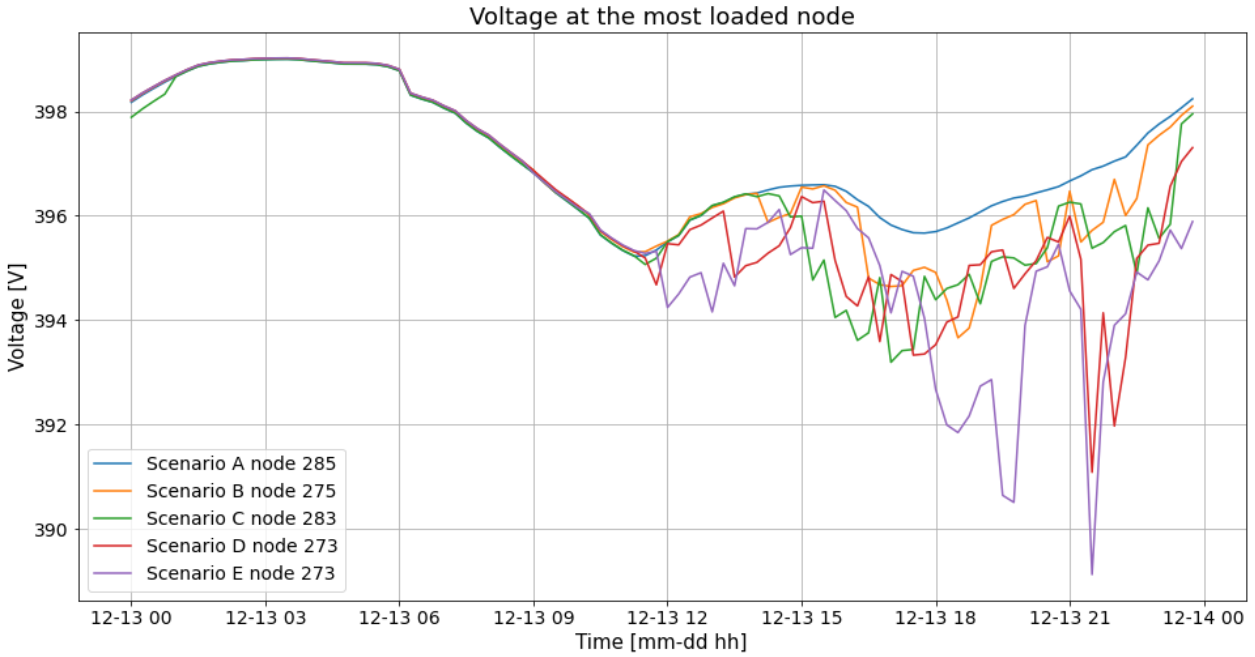
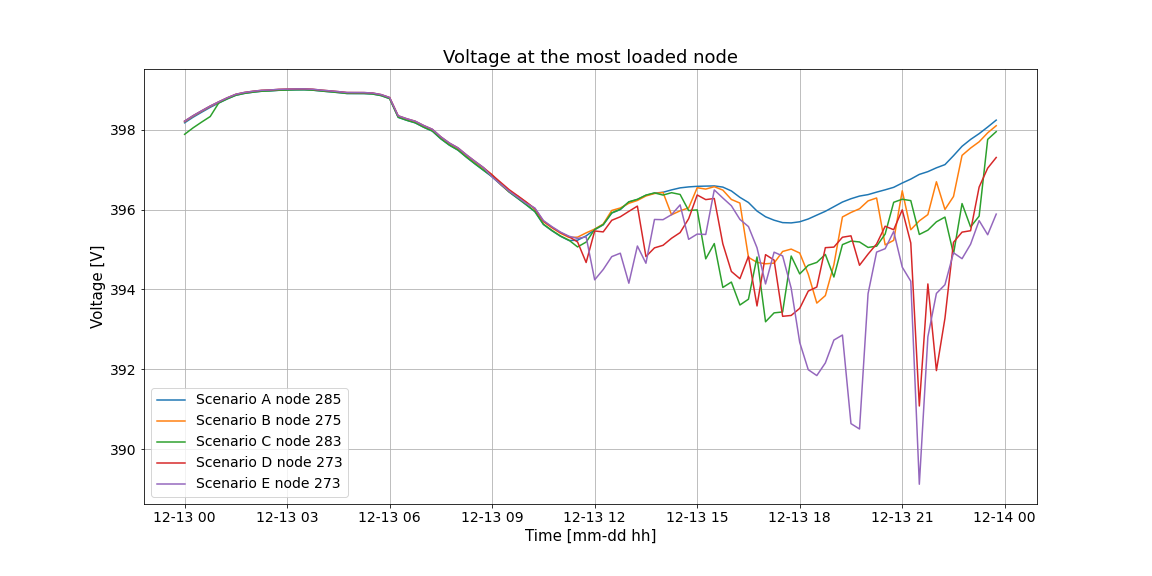
Update documentation

diff --git a/searchindex.js b/searchindex.js
@@ -1,1 +1,1 @@
-Search.setIndex({docnames:["README","dummy","index","intro","results","simulation"],envversion:{"sphinx.domains.c":2,"sphinx.domains.changeset":1,"sphinx.domains.citation":1,"sphinx.domains.cpp":3,"sphinx.domains.index":1,"sphinx.domains.javascript":2,"sphinx.domains.math":2,"sphinx.domains.python":2,"sphinx.domains.rst":2,"sphinx.domains.std":2,"sphinx.ext.intersphinx":1,"sphinxcontrib.bibtex":7,sphinx:56},filenames:["README.md","dummy.md","index.md","intro.ipynb","results.md","simulation.ipynb"],objects:{},objnames:{},objtypes:{},terms:{"100":[1,3,4,5],"100km":1,"100pro":1,"12156":3,"12337":1,"12708":1,"136617":3,"150":1,"15min":5,"16z":[],"183003":1,"18948":3,"1tag":[],"200":5,"2008":1,"200km":4,"2010":3,"2011":[1,3],"2015":1,"2020":[0,1,3,5],"2021":[1,3],"2030":3,"2031":3,"220":[4,5],"2307":3,"25502":3,"265995":3,"273":5,"285":[],"309083":3,"30t11":[],"34022":3,"340v":4,"365":1,"376v":4,"3min":[],"400":5,"400v":1,"4514":3,"500":1,"52kwh":1,"53861":3,"700px":[],"7114":3,"83175":3,"aufnahmef\u00e4higkeit":1,"case":4,"default":1,"f\u00fcr":[0,1],"final":5,"hausanschl\u00fcss":0,"import":[3,5],"int":5,"j\u00e4hrlich":1,"k\u00f6ln":1,"k\u00f6nnen":0,"long":4,"m\u00fcnchen":1,"new":[3,5],"sp\u00e4t":1,"switch":1,"transient":4,"true":5,"universit\u00e4t":1,Als:0,And:[1,5],For:3,One:2,The:[2,3,4],These:1,With:[1,4],_2008:[],abbrevi:[],about:4,abov:5,accept:[],accomplish:2,accord:[1,5],account:1,action:5,activ:[4,5],activate_contol:5,ada:1,adac:1,adding:5,addition:1,adjust:[1,5],adopt:1,aim:2,all:[1,4,5],allow:5,almost:4,als:1,also:[1,4,5],alter:5,alwai:4,anaconda:2,andrea:1,annoi:5,anoth:[1,2],anzahl:3,appli:5,area:3,aren:3,arrai:3,arriv:[4,5],arrival_tim:5,artifici:5,assess:3,assum:1,attach:[1,4],atteri:3,aus:[0,1],auto:[],avaiabl:5,avail:[2,3,5],averag:1,bachelor:[],back:4,background:2,band:4,bar:3,baseload:5,batteri:5,battery_control:5,batterycontrol:5,bee:[1,3,4],bei:1,belastet:5,besser:1,bev:[3,4,5],bevs_prog:3,bewar:2,big:2,bigger:4,bilanz:1,binder:[0,2],blabla:[],black:3,book:0,bring:4,bus:5,busbar:4,bzw:1,calcul:[1,5],can:5,capac:1,categori:[1,5],caus:4,cdot:1,chang:[2,4,5],chapter:[1,2,4,5],characterist:1,charg:[3,4,5],check:5,choic:5,choos:[1,2,5],choosen:[1,5],code:2,color:3,column:5,com:[1,3],common:4,complet:[1,5],compon:4,comput:[2,5],config:3,configur:5,consid:1,consider:3,constant:3,constcontrol:5,constitut:[],consumpt:1,contribut:1,control:5,controllable_batteri:5,controllablebatteri:5,coordin:5,correct:5,correspond:4,cosphi:5,cours:5,cpu:2,craft:[],create_kerber_vorstadtnetz_kabel_1:5,crit_bu:5,crit_lin:5,critic:5,csv:5,current:1,curv:[1,5],custom:5,dai:1,data:3,data_nuernberg:5,data_sourc:5,datasourc:5,datasource_bat:5,date_rang:5,datei:[],daten:[1,3,5],deepest:4,defi:1,defin:1,delta:[1,5],dem:0,demand:1,den:[],depend:1,depict:[4,5],der:[0,3],deriv:1,des:1,describ:[1,5],design:1,determ:[],determin:[1,5],deutschland:[1,3],develop:[3,5],dfdata:5,die:[0,1],dient:0,differ:[3,4,5],differenti:1,diploma:[],disc:[],discret:1,discuss:1,distanc:5,distance_travel:5,distibut:[],distribut:[4,5],doesn:5,dou15:1,doum:1,download:2,downscal:1,drive:1,driven:[],drop:[1,4],e_n:1,each:4,easiest:2,effect:[3,4],ehicl:3,ein:[0,1],einer:0,einspeisung:1,einzelnen:0,elect:[],electr:3,elektrisch:1,elektrischen:1,elektroauto:[1,3],elektrofahrzeug:0,elektromobilitaet:1,elektromodel:1,element:[1,5],element_index:5,els:5,enabl:5,end:[1,4],energi:1,entsprechend:[],environ:2,equat:[1,5],ergebniss:[],erneuerbar:1,erzeugen:[],even:[3,4],exampl:3,expect:[1,3],experi:2,exponenti:3,extrem:5,f_d:1,f_i:1,factor:[1,2,5],fahrleistung:1,fahrzeug:1,fahrzeugen:1,faktor:5,fals:5,festlegen:[],figsiz:[3,5],figur:[1,3,4,5],figure_format:3,first:[1,2,5],fix:5,follow:[1,2,3,4,5],fontsiz:[3,5],frac:1,frame_data:5,freq:5,from:[1,3,4,5],further:[2,3],furthermor:[1,4],futur:3,futurewarn:5,gefahren:1,geht:0,geladen:0,geloggt:[],gener:5,geodata:5,georg:1,german:1,germani:3,get:4,get_critical_bu:5,get_critical_lin:5,github:[2,5],given:[1,2,4],gleichzeitig:0,goe:[],goi:1,going:[3,4],goingelectr:1,granular:5,grid:3,grow:3,growth:3,h0a:[0,1],handl:1,has:3,have:[4,5],hello:[],here:[2,4],hier:0,higher:4,highest:[1,4],hochschul:1,home:4,hour:[4,5],household:[1,3],howev:[4,5],htm:1,html:1,http:[1,3],hybrid:3,hydrogen:[],ignor:5,igraph:5,iloc:5,implement:1,implementig:1,includ:[3,5],increas:4,index:5,indic:3,influenc:[1,5],info:1,initi:1,inlinebackend:3,inplac:5,insuffici:5,int_:[],integr:1,interact:2,introduc:3,introduct:2,investig:1,ion:1,isn:5,ist:1,jahr:1,jeden:[],jeweiligen:[],journal:[],jupyt:[0,2],k_d:1,k_i:1,k_l:1,keep:[3,4],ker11:1,kerber:[0,1,5],kerber_aufnahmefahigkeit_2011:[],key1:[],kilomet:1,klick:2,kwh:1,label:3,ladekurven:[],larger:3,last:[1,3],lastmanag:1,lastmanagement_elektromobilitaet:1,lastprofil:[0,5],layout:5,lead:3,lectric:3,left:1,legend:3,leitung:5,len:5,length:5,level:3,librari:5,limit:2,line:3,linspac:3,list:[1,3],lithium:1,live:2,load:3,load_control:[],load_controler_q:5,load_controller_bat:5,load_scenario:5,loading_data:5,loading_perc:5,loading_pow:5,loads_bat:5,loads_q:5,local:[1,2],log:5,log_vari:5,look:5,loop:1,low:4,lower:1,mai:5,main:4,make:[2,5],manipul:5,marker:5,matplotlib:[3,5],max:1,maxim:5,maximum:[1,4],mean:[1,4],methodolog:2,might:[2,5],million:3,min:5,minimum:5,minut:[4,5],miss:[],mit:0,mobil:3,model:3,most:[1,3,5],much:4,multipl:5,n_ergi:[0,1],need:5,net:5,netbeam:4,network:[1,2],netz:[0,1],netzwerk:0,next:[1,5],nie:1,niederspannungsnetzen:1,niederspannungsverteilnetzen:1,noa:3,node:[1,3],nom:1,nomin:5,none:5,notebook:2,nother:[],notic:4,notwendigkeit:1,now:5,nuernberg_absolut_fin:5,number:[1,3],numpi:3,observ:3,occur:4,offer:2,one:[1,5],onli:1,open:2,out:5,output:5,output_file_typ:5,output_path:5,outputwrit:5,overcom:2,own:2,p_mw:5,page:1,panda:5,pandapow:[0,1,3,5],paramet:[2,3],part:1,peak:[1,4],penetr:[3,4,5],peopl:[1,4],per:1,period:5,photovoltaikkleinanlagen:1,pkw:1,plot:[1,3,5],plt:[3,5],plug:3,point:1,possibilii:2,possibl:[2,5],power:5,powerfactor:5,ppt:5,pptool:5,predefin:[],predict:3,prepare_baseload:5,prepare_batteri:5,print:5,pro:1,probabl:1,profile_nam:5,progress:[2,5],proportion:1,propos:5,provid:[1,2],publikationen:1,pyplot:[3,5],python:[3,5],q_mvar:5,quarter:5,quicker:4,rahmenbedingungen:1,ram:2,random:5,rang:3,rate:1,reactiv:5,read:5,read_csv:5,real:1,red:3,referenznetz:0,reflect:5,regist:3,relev:2,remot:2,ren:1,renault:1,repositori:[2,5],repositum:1,repres:1,res_bu:5,res_lin:5,res_trafo:5,resolut:[4,5],respons:4,ressourc:[],result:1,results_bu:5,results_lin:5,results_trafo:5,retina:3,right:[1,2],rise:3,risen:3,rocket:2,rstrip:5,run:2,run_timeseri:5,rund:1,same:[4,5],same_arriv:5,same_pow:5,same_travel:5,satisfi:5,scenario:4,sch08:1,schemat:1,schneider:[],school:[],schreibt:[],schuster:1,schuster_batteri:[],second_d:5,see:[1,4],seed:5,seem:3,sep:5,separ:1,serv:1,session:2,set_const:5,set_control_param:5,set_resolut:5,set_simulation_rang:5,setzt:[],share:[3,5],show:[1,3,4],shown:1,significantli:3,simple_plot:5,simplefilt:5,simul:[1,2,3,4],simulieren:0,sinc:3,slightli:[],slp:[1,5],soc:[1,4],soc_0:1,soc_:1,soc_n:1,sold:1,sollen:[],some:[3,5],space:[],specifi:[2,5],sta:1,stabil:3,stai:4,stand:3,standardlastprofil:0,start:[1,2,4,5],state:[1,5],station:[3,5],statist:5,statista:[1,3],statistik:[1,3],step:5,stop:1,storag:[],store:5,str:5,stress:[3,5],stromtankstellen:1,studi:[1,3],subject:2,suburb:1,suburban:3,suitabl:2,sum_:1,summar:4,suppress:5,symbol:[1,2],system:[],szenario0:5,szenario100:5,szenario30:5,szenario50:5,szenario80:5,tabl:[1,3,5],take:[4,5],taken:1,tech:1,technisch:1,textbar:[],tfrac:1,thee:[],thei:4,therefor:3,thesi:[],thi:[1,4,5],tho15:[],thorben:1,those:3,three:1,thu:[4,5],tick:3,till:3,time:[4,5],timeseri:5,timestep:1,titl:[3,5],toler:4,too:2,tool:[3,5],top:2,topic:2,transform:3,travel:[4,5],tuwien:1,two:2,typischen:0,u_n:1,umfrag:[1,3],ums:1,und:[0,1],underli:5,unit:1,until:4,url:[1,3],used:[1,2,5],using:[3,5],valu:1,variabl:5,variablen:[],vaue:1,vehicl:3,verwendet:0,viel:0,visit:[1,3],vm_pu:5,voltag:[1,3,4],von:[0,1],vorstadt:0,wai:[2,5],warn:5,wasserstoffspeich:1,welch:[],well:2,werden:0,wert:[],what:3,when:[3,4,5],where:[3,5],whether:5,which:[1,5],whole:[4,5],why:2,wich:1,width:[],wie:0,wien:1,wird:0,without:4,work:2,worst:4,writer:5,www:1,xlabel:[3,5],xtick:3,year:[1,3],years_prog:3,ylabel:[3,5],ytick:3,zeitpukten:[],zoe:1,zum:0},titles:["SNEE-Projekt","Methodology for Research","How to read this Book","Introduction","Discussion of the Results","Simulation of the Grid"],titleterms:{Bus:5,The:[1,5],arriv:1,attent:[2,5],background:3,batteri:1,bev:1,bibliographi:[1,3],book:2,charg:1,chargin:[],code:5,consid:3,control:[1,4],creat:5,discuss:4,distanc:1,distribut:1,ditribut:[],goal:3,grid:[1,5],hint:[2,4],how:2,introduct:3,line:[4,5],load:[1,4,5],methodolog:1,model:1,most:4,necessari:5,network:5,node:4,nomin:1,note:3,paramet:[1,5],power:1,prepar:5,profil:1,projekt:0,read:2,refer:1,research:1,result:[4,5],run:5,scenario:[3,5],see:5,set:5,simul:5,snee:0,standard:1,station:1,thi:[2,3],time:1,tip:5,transform:[4,5],travel:1,voltag:5,work:3}})
+Search.setIndex({docnames:["README","dummy","index","intro","results","simulation"],envversion:{"sphinx.domains.c":2,"sphinx.domains.changeset":1,"sphinx.domains.citation":1,"sphinx.domains.cpp":3,"sphinx.domains.index":1,"sphinx.domains.javascript":2,"sphinx.domains.math":2,"sphinx.domains.python":2,"sphinx.domains.rst":2,"sphinx.domains.std":2,"sphinx.ext.intersphinx":1,"sphinxcontrib.bibtex":7,sphinx:56},filenames:["README.md","dummy.md","index.md","intro.ipynb","results.md","simulation.ipynb"],objects:{},objnames:{},objtypes:{},terms:{"100":[1,3,4,5],"100km":1,"100pro":1,"12156":3,"12337":1,"12708":1,"136617":3,"150":1,"15min":5,"16z":[],"183003":1,"18948":3,"1tag":[],"200":5,"2008":1,"200km":4,"2010":3,"2011":[1,3],"2015":1,"2020":[0,1,3,5],"2021":[1,3],"2030":3,"2031":3,"220":[4,5],"2307":3,"25502":3,"265995":3,"273":5,"285":[],"309083":3,"30t11":[],"34022":3,"340v":4,"365":1,"376":3,"376v":4,"3min":[],"400":5,"400v":1,"4514":3,"500":1,"52kwh":1,"53861":3,"700px":[],"7114":3,"83175":3,"aufnahmef\u00e4higkeit":1,"case":4,"default":1,"f\u00fcr":[0,1],"final":5,"hausanschl\u00fcss":0,"import":[3,5],"int":5,"j\u00e4hrlich":1,"k\u00f6ln":1,"k\u00f6nnen":0,"long":4,"m\u00fcnchen":1,"new":[3,5],"sp\u00e4t":1,"switch":1,"transient":4,"true":5,"universit\u00e4t":1,Als:0,And:[1,5],For:3,One:2,The:[2,3,4],These:1,With:[1,4],_2008:[],abbrevi:[],about:4,abov:5,accept:[],accomplish:2,accord:[1,5],account:1,action:5,activ:[4,5],activate_contol:5,ada:1,adac:1,adding:5,addition:1,adjust:[1,5],adopt:1,aim:2,all:[1,4,5],allow:5,almost:4,als:1,also:[1,4,5],alter:5,alwai:4,anaconda:2,andrea:1,annoi:5,anoth:[1,2],anzahl:3,appli:5,area:3,aren:3,arrai:3,arriv:[4,5],arrival_tim:5,artifici:5,assess:3,assum:1,attach:[1,4],atteri:3,aus:[0,1],auto:[],avaiabl:5,avail:[2,3,5],averag:1,bachelor:[],back:4,background:2,band:4,bar:3,baseload:5,batteri:5,battery_control:5,batterycontrol:5,bee:[1,3,4],bei:1,belastet:5,besser:1,bev:[3,4,5],bevs_prog:3,bewar:2,big:2,bigger:4,bilanz:1,binder:[0,2],blabla:[],black:3,book:0,bring:4,bus:5,busbar:4,bzw:1,calcul:[1,5],can:5,capac:1,categori:[1,5],caus:4,cdot:1,chang:[2,4,5],chapter:[1,2,4,5],characterist:1,charg:[3,4,5],check:5,choic:5,choos:[1,2,5],choosen:[1,5],code:2,color:3,column:5,com:[1,3],common:4,complet:[1,5],compon:4,comput:[2,5],config:3,configur:5,consid:1,consider:[],constant:3,constcontrol:5,constitut:[],consumpt:1,contribut:1,control:5,controllable_batteri:5,controllablebatteri:5,coordin:5,correct:5,correspond:4,cosphi:5,cours:5,cpu:2,craft:[],create_kerber_vorstadtnetz_kabel_1:5,crit_bu:5,crit_lin:5,criterion:3,critic:5,csv:5,current:1,curv:[1,5],custom:5,dai:1,data:3,data_nuernberg:5,data_sourc:5,datasourc:5,datasource_bat:5,date_rang:5,datei:[],daten:[1,3,5],deepest:4,defi:1,defin:1,delta:[1,5],dem:0,demand:1,den:[],depend:1,depict:[4,5],der:[0,3],deriv:1,des:1,describ:[1,5],design:1,determ:[],determin:[1,5],deutschland:[1,3],develop:[3,5],dfdata:5,die:[0,1],dient:0,differ:[3,4,5],differenti:1,diploma:[],disc:[],discret:1,discuss:1,distanc:5,distance_travel:5,distibut:[],distribut:[4,5],doesn:5,dou15:1,doum:1,download:2,downscal:1,drive:1,driven:[],drop:[1,4],e_n:1,each:4,easiest:2,effect:[3,4],ehicl:3,ein:[0,1],einer:0,einspeisung:1,einzelnen:0,elect:[],electr:3,elektrisch:1,elektrischen:1,elektroauto:[1,3],elektrofahrzeug:0,elektromobilitaet:1,elektromodel:1,element:[1,5],element_index:5,els:5,enabl:5,end:[1,4],energi:1,entsprechend:[],environ:2,equat:[1,5],ergebniss:[],erneuerbar:1,erzeugen:[],even:[3,4],exampl:3,expect:[1,3],experi:2,exponenti:3,extrem:5,f_d:1,f_i:1,factor:[1,2,5],fahrleistung:1,fahrzeug:1,fahrzeugen:1,faktor:5,fals:5,festlegen:[],figsiz:[3,5],figur:[1,3,4,5],figure_format:3,first:[1,2,5],fix:5,follow:[1,2,3,4,5],fontsiz:[3,5],frac:1,frame_data:5,freq:5,from:[1,3,4,5],further:[2,3],furthermor:[1,4],futur:3,futurewarn:5,gefahren:1,geht:0,geladen:0,geloggt:[],gener:5,geodata:5,georg:1,german:1,germani:3,get:4,get_critical_bu:5,get_critical_lin:5,github:[2,5],given:[1,2,3,4],gleichzeitig:0,goe:[],goi:1,going:[3,4],goingelectr:1,granular:5,grid:3,grow:3,growth:3,h0a:[0,1],handl:1,has:3,have:[4,5],hello:[],here:[2,4],hier:0,higher:4,highest:[1,4],hochschul:1,home:4,hour:[4,5],household:[1,3],howev:[4,5],htm:1,html:1,http:[1,3],hybrid:3,hydrogen:[],ignor:5,igraph:5,iloc:5,implement:1,implementig:1,includ:[3,5],increas:4,index:5,indic:3,influenc:[1,5],info:1,initi:1,inlinebackend:3,inplac:5,insuffici:5,int_:[],integr:1,interact:2,introduc:3,introduct:2,investig:1,ion:1,isn:5,ist:1,jahr:1,jeden:[],jeweiligen:[],journal:[],jupyt:[0,2],k_d:1,k_i:1,k_l:1,keep:[3,4],ker11:1,kerber:[0,1,5],kerber_aufnahmefahigkeit_2011:[],key1:[],kilomet:1,klick:2,kwh:1,label:3,ladekurven:[],larger:3,last:[1,3],lastmanag:1,lastmanagement_elektromobilitaet:1,lastprofil:[0,5],layout:5,lead:3,lectric:3,left:1,legend:3,leitung:5,len:5,length:5,level:3,librari:5,limit:2,line:3,linspac:3,list:[1,3],lithium:1,live:2,load:3,load_control:[],load_controler_q:5,load_controller_bat:5,load_scenario:5,loading_data:5,loading_perc:5,loading_pow:5,loads_bat:5,loads_q:5,local:[1,2],log:5,log_vari:5,look:5,loop:1,low:4,lower:1,mai:5,main:4,make:[2,5],manipul:5,marker:5,matplotlib:[3,5],max:1,maxim:5,maximum:[1,4],mean:[1,4],methodolog:2,might:[2,5],million:3,min:5,minimum:5,minut:[4,5],miss:[],mit:0,mobil:3,model:3,most:[1,3,5],much:4,multipl:5,n_ergi:[0,1],need:5,net:5,netbeam:4,network:[1,2],netz:[0,1],netzwerk:0,next:[1,5],nie:1,niederspannungsnetzen:1,niederspannungsverteilnetzen:1,noa:3,node:[1,3],nom:1,nomin:5,none:5,notebook:2,nother:[],notic:4,notwendigkeit:1,now:5,nuernberg_absolut_fin:5,number:[1,3],numpi:3,observ:[],occur:4,offer:2,one:[1,5],onli:1,open:2,out:5,output:5,output_file_typ:5,output_path:5,outputwrit:5,overcom:2,own:2,p_mw:5,page:1,panda:5,pandapow:[0,1,3,5],paramet:2,part:1,peak:[1,4],penetr:[3,4,5],peopl:[1,4],per:1,period:5,photovoltaikkleinanlagen:1,pkw:1,plot:[1,3,5],plt:[3,5],plug:3,point:1,possibilii:2,possibl:[2,5],power:5,powerfactor:5,ppt:5,pptool:5,predefin:[],predict:3,prepare_baseload:5,prepare_batteri:5,print:5,pro:1,probabl:1,profile_nam:5,progress:[2,5],proportion:1,propos:5,provid:[1,2],publikationen:1,pyplot:[3,5],python:[3,5],q_mvar:5,quarter:5,quicker:4,rahmenbedingungen:1,ram:2,random:5,rang:3,rate:1,reactiv:5,read:5,read_csv:5,real:1,red:3,referenznetz:0,reflect:5,regist:3,relev:2,remot:2,ren:1,renault:1,repositori:[2,5],repositum:1,repres:1,res_bu:5,res_lin:5,res_trafo:5,resolut:[4,5],respons:4,ressourc:[],result:1,results_bu:5,results_lin:5,results_trafo:5,retina:3,right:[1,2],rise:3,risen:3,rocket:2,rstrip:5,run:2,run_timeseri:5,rund:1,same:[4,5],same_arriv:5,same_pow:5,same_travel:5,satisfi:5,scenario:4,sch08:1,schemat:1,schneider:[],school:[],schreibt:[],schuster:1,schuster_batteri:[],second_d:5,see:[1,4],seed:5,seem:3,sep:5,separ:1,serv:1,session:2,set_const:5,set_control_param:5,set_resolut:5,set_simulation_rang:5,setzt:[],share:[3,5],show:[1,3,4],shown:1,significantli:3,simple_plot:5,simplefilt:5,simul:[1,2,3,4],simulieren:0,sinc:3,slightli:[],slp:[1,5],soc:[1,4],soc_0:1,soc_:1,soc_n:1,sold:1,sollen:[],some:[3,5],space:[],specifi:[2,5],sta:1,stabil:3,stai:4,stand:3,standardlastprofil:0,start:[1,2,4,5],state:[1,5],station:[3,4,5],statist:5,statista:[1,3],statistik:[1,3],step:5,stop:1,storag:[],store:5,str:5,stress:[3,5],stromtankstellen:1,studi:[1,3],subject:2,suburb:1,suburban:3,suitabl:2,sum_:1,summar:4,suppress:5,symbol:[1,2],system:[],szenario0:5,szenario100:5,szenario30:5,szenario50:5,szenario80:5,tabl:[1,3,5],take:[4,5],taken:1,tech:1,technisch:1,textbar:[],tfrac:1,thee:[],thei:4,therefor:3,thesi:[],thi:[1,4,5],tho15:[],thorben:1,those:3,three:1,thu:[4,5],tick:3,till:3,time:[4,5],timeseri:5,timestep:1,titl:[3,5],toler:4,too:2,tool:[3,5],top:2,topic:2,transform:3,travel:[4,5],tuwien:1,two:2,typischen:0,u_n:1,umfrag:[1,3],ums:1,und:[0,1],underli:5,unit:1,until:4,url:[1,3],used:[1,2,5],using:[3,5],valu:1,variabl:5,variablen:[],vaue:1,vehicl:3,verwendet:0,viel:0,visit:[1,3],vm_pu:5,voltag:[1,3,4],von:[0,1],vorstadt:0,wai:[2,5],warn:5,wasserstoffspeich:1,welch:[],well:2,werden:0,wert:[],what:3,when:[3,4,5],where:[3,5],whether:5,which:[1,5],whole:[4,5],why:2,wich:1,width:[],wie:0,wien:1,wird:0,without:4,work:2,worst:4,writer:5,www:1,xlabel:[3,5],xtick:3,year:[1,3],years_prog:3,ylabel:[3,5],ytick:3,zeitpukten:[],zoe:1,zum:0},titles:["SNEE-Projekt","Methodology for Research","How to read this Book","Introduction","Discussion of the Results","Simulation of the Grid"],titleterms:{Bus:5,The:[1,5],arriv:1,attent:[2,5],background:3,batteri:1,bev:1,bibliographi:[1,3],book:2,charg:1,chargin:[],code:5,consid:3,control:[1,4],creat:5,discuss:4,distanc:1,distribut:1,ditribut:[],goal:3,grid:[1,5],hint:[2,4],how:2,introduct:3,line:[4,5],load:[1,4,5],methodolog:1,model:1,most:4,necessari:5,network:5,node:4,nomin:1,note:3,observ:3,paramet:[1,3,5],power:1,prepar:5,profil:1,projekt:0,read:2,refer:1,research:1,result:[4,5],run:5,scenario:[3,5],see:5,set:5,simul:5,snee:0,standard:1,station:1,thi:[2,3],time:1,tip:5,transform:[4,5],travel:1,voltag:5,work:3}})

diff --git a/results.html b/results.html
@@ -229,12 +229,12 @@
                 
   <div class="section" id="discussion-of-the-results">
 <h1>Discussion of the Results<a class="headerlink" href="#discussion-of-the-results" title="Permalink to this headline">¶</a></h1>
-<p>In this chapter the results of simulating the different <a class="reference internal" href="intro.html#tab1"><span class="std std-ref">scenarios</span></a> are beeing summarized. In the following the results for each component are discussed. Furthermore the effect of the controlling is discussed.</p>
+<p>In this chapter the results of simulating the different <a class="reference internal" href="intro.html#tab2"><span class="std std-ref">scenarios</span></a> are beeing summarized. In the following the results for each component are discussed. Furthermore the effect of the controlling is discussed.</p>
 <div class="section" id="results-of-the-transformer">
 <h2>Results of the Transformer<a class="headerlink" href="#results-of-the-transformer" title="Permalink to this headline">¶</a></h2>
 <p>The loading of the transformer for the different scenarios is given in the following <a class="reference internal" href="#fig8"><span class="std std-ref">Figure 8</span></a>:</p>
 <div class="figure align-default" id="fig8">
-<a class="reference internal image-reference" href="_images/res_trafo.png"><img alt="_images/res_trafo.png" src="_images/res_trafo.png" style="width: 700px;" /></a>
+<a class="reference internal image-reference" href="_images/res_trafo.png"><img alt="_images/res_trafo.png" src="_images/res_trafo.png" style="width: 900px;" /></a>
 <p class="caption"><span class="caption-number">Fig. 8 </span><span class="caption-text">Simulation results for the transformer</span><a class="headerlink" href="#fig8" title="Permalink to this image">¶</a></p>
 </div>
 <p>It is to see, that the peak loading keeps getting bigger with higher penetrations of BEV. Also the peak in the evening hours corresponds to the distribution of arrival times depicted in <a class="reference internal" href="dummy.html#fig5"><span class="std std-ref">Figure 5</span></a>. The most people arrive in the evening and start charging their BEV, thus causing the highest peak in the evening.</p>
@@ -243,7 +243,7 @@
 <h2>Results of the most loaded Line<a class="headerlink" href="#results-of-the-most-loaded-line" title="Permalink to this headline">¶</a></h2>
 <p>The loading of the most loaded line for the different scenarios is given in the following <a class="reference internal" href="#fig9"><span class="std std-ref">Figure 9</span></a>:</p>
 <div class="figure align-default" id="fig9">
-<a class="reference internal image-reference" href="_images/res_line.png"><img alt="_images/res_line.png" src="_images/res_line.png" style="width: 700px;" /></a>
+<a class="reference internal image-reference" href="_images/res_line.png"><img alt="_images/res_line.png" src="_images/res_line.png" style="width: 900px;" /></a>
 <p class="caption"><span class="caption-number">Fig. 9 </span><span class="caption-text">Simulation results for the most loaded line</span><a class="headerlink" href="#fig9" title="Permalink to this image">¶</a></p>
 </div>
 <p>The most loaded line is line nr. 220, the line going from the main busbar to the netbeam with 32 loads attached (as depicted in <a class="reference internal" href="dummy.html#fig2"><span class="std std-ref">Figure 2</span></a>). Here is also to see the peak in the evening hours, when the most people arrive at home and start loading their BEV. The peak loading increases with higher penetrations of BEV.</p>
@@ -252,7 +252,7 @@
 <h2>Results of the most loaded Node<a class="headerlink" href="#results-of-the-most-loaded-node" title="Permalink to this headline">¶</a></h2>
 <p>The Voltage at the most loaded nodes for the different scenarios is given in the following <a class="reference internal" href="#fig10"><span class="std std-ref">Figure 10</span></a>:</p>
 <div class="figure align-default" id="fig10">
-<a class="reference internal image-reference" href="_images/res_bus.png"><img alt="_images/res_bus.png" src="_images/res_bus.png" style="width: 700px;" /></a>
+<a class="reference internal image-reference" href="_images/res_bus.png"><img alt="_images/res_bus.png" src="_images/res_bus.png" style="width: 900px;" /></a>
 <p class="caption"><span class="caption-number">Fig. 10 </span><span class="caption-text">Simulation results for the most loaded nodes</span><a class="headerlink" href="#fig10" title="Permalink to this image">¶</a></p>
 </div>
 <p>Notice the changing nodes for different scenarios (these are always nodes near the end of a netbeam). They all have in common, that the deepest voltage drop occurs in the evening hours (when the most people arrive at home and start loading their BEV). It is to see, that the maximum voltage drop keeps increasing for higher penetrations of BEVs.</p>
@@ -263,12 +263,12 @@
 <p class="sidebar-title"></p>
 <div class="hint admonition">
 <p class="admonition-title">Hint</p>
-<p>Worst-case means scenario E (100% penetration of BEVs) with all the BEVs arriving at the same time and having travelled 200km (so the SOC is low).</p>
+<p>Worst-case means scenario E (100% penetration of BEVs) with all the BEVs arriving at the same time and having travelled 200km (so the SOC is low), all charging stations are 11 kW.</p>
 </div>
 </div>
 <p>The following <a class="reference internal" href="#fig11"><span class="std std-ref">Figure 11</span></a> shows the voltage at the most loaded node for the worst-case-scenario with and without controlling:</p>
 <div class="figure align-default" id="fig11">
-<a class="reference internal image-reference" href="_images/res_controlling.png"><img alt="_images/res_controlling.png" src="_images/res_controlling.png" style="width: 700px;" /></a>
+<a class="reference internal image-reference" href="_images/res_controlling.png"><img alt="_images/res_controlling.png" src="_images/res_controlling.png" style="width: 900px;" /></a>
 <p class="caption"><span class="caption-number">Fig. 11 </span><span class="caption-text">Simulation results for the controlling</span><a class="headerlink" href="#fig11" title="Permalink to this image">¶</a></p>
 </div>
 <p>Without active controlling the voltage drops to about 340V, staying there until all BEVs are loaded. With controlling activated, the controller brings the voltage back to 376V and thus in a tolerable voltage band. In case of the 15 minute resolution the transient response takes almost as long as the whole charging. However, in case of the 1 minute resolution the transient response is much quicker.</p>

diff --git a/dummy.html b/dummy.html
@@ -282,7 +282,7 @@
 <h2>The Standard Load Profile<a class="headerlink" href="#the-standard-load-profile" title="Permalink to this headline">¶</a></h2>
 <p>As a SLP serves a profile “H0A” of <a class="reference external" href="https://www.n-ergie-netz.de/startseite/produkte-dienstleistungen/netznutzung/netznutzung-strom/%21ut/p/z1/04_Sj9CPykssy0xPLMnMz0vMAfIjo8zifT2dDQyd_A18DfzCzAwCXQ0Ng52Ngg39jMz0w_EpMDY114-iRL-lGXH6DVCAo4FTkJGTsYGBu78ROfqRTaLI_SAFUfiND9ePwmuFsxF-BeAgxqvA0piQAjOoAnyhSMgfBbmhQBBhkOmZ6QkA7tlcaw%21%21/dz/d5/L2dBISEvZ0FBIS9nQSEh/">N_ERGIE netz</a> of 2020, which represents the load of a household. The day with the highest power demand is the 13.12.2020. This day was choosen for the simulation. The following <a class="reference internal" href="#fig3"><span class="std std-ref">Figure 3</span></a> shows the SLP:</p>
 <div class="figure align-default" id="fig3">
-<a class="reference internal image-reference" href="_images/slp.png"><img alt="_images/slp.png" src="_images/slp.png" style="width: 700px;" /></a>
+<a class="reference internal image-reference" href="_images/slp.png"><img alt="_images/slp.png" src="_images/slp.png" style="width: 900px;" /></a>
 <p class="caption"><span class="caption-number">Fig. 3 </span><span class="caption-text">Load profile of the used SLP</span><a class="headerlink" href="#fig3" title="Permalink to this image">¶</a></p>
 </div>
 <p>The values are considered to be real power.</p>
@@ -363,9 +363,9 @@
 </div>
 <div class="section" id="the-distribution-of-travelled-distances">
 <h2>The Distribution of travelled Distances<a class="headerlink" href="#the-distribution-of-travelled-distances" title="Permalink to this headline">¶</a></h2>
-<p>The distribution of the travelled distances is taken from <span id="id5">[<a class="reference internal" href="#id18">sta</a>]</span>. The vaues provided for 2020 are downscaled to one day (assuming 365 days driving per year). These downscaled values are given in the following <a class="reference internal" href="#tab2"><span class="std std-ref">Table 2</span></a>:</p>
-<table class="colwidths-auto table" id="tab2">
-<caption><span class="caption-number">Table 2 </span><span class="caption-text">Distribution of travelled distances</span><a class="headerlink" href="#tab2" title="Permalink to this table">¶</a></caption>
+<p>The distribution of the travelled distances is taken from <span id="id5">[<a class="reference internal" href="#id18">sta</a>]</span>. The vaues provided for 2020 are downscaled to one day (assuming 365 days driving per year). These downscaled values are given in the following <a class="reference internal" href="#tab3"><span class="std std-ref">Table 3</span></a>:</p>
+<table class="colwidths-auto table" id="tab3">
+<caption><span class="caption-number">Table 3 </span><span class="caption-text">Distribution of travelled distances</span><a class="headerlink" href="#tab3" title="Permalink to this table">¶</a></caption>
 <thead>
 <tr class="row-odd"><th class="head"><p>Distance travelled [km]</p></th>
 <th class="head"><p>Probability [-]</p></th>
@@ -393,9 +393,9 @@
 </div>
 <div class="section" id="the-distribution-of-the-nominal-power-of-the-charging-stations">
 <h2>The Distribution of the Nominal Power of the Charging Stations<a class="headerlink" href="#the-distribution-of-the-nominal-power-of-the-charging-stations" title="Permalink to this headline">¶</a></h2>
-<p>The distribution is taken from <span id="id8">[<a class="reference internal" href="#id21">goi</a>]</span>, only taken into account the first three categories. This results in the values given in the following <a class="reference internal" href="#tab3"><span class="std std-ref">Table 3</span></a>:</p>
-<table class="colwidths-auto table" id="tab3">
-<caption><span class="caption-number">Table 3 </span><span class="caption-text">Distribution of the charging power</span><a class="headerlink" href="#tab3" title="Permalink to this table">¶</a></caption>
+<p>The distribution is taken from <span id="id8">[<a class="reference internal" href="#id21">goi</a>]</span>, only taken into account the first three categories. This results in the values given in the following <a class="reference internal" href="#tab4"><span class="std std-ref">Table 4</span></a>:</p>
+<table class="colwidths-auto table" id="tab4">
+<caption><span class="caption-number">Table 4 </span><span class="caption-text">Distribution of the charging power</span><a class="headerlink" href="#tab4" title="Permalink to this table">¶</a></caption>
 <thead>
 <tr class="row-odd"><th class="head"><p>Charging power [kW]</p></th>
 <th class="head"><p>Probability</p></th>
@@ -439,9 +439,9 @@
 <a class="reference internal image-reference" href="_images/control-loop.png"><img alt="_images/control-loop.png" src="_images/control-loop.png" style="width: 700px;" /></a>
 <p class="caption"><span class="caption-number">Fig. 7 </span><span class="caption-text">Controller loop</span><a class="headerlink" href="#fig7" title="Permalink to this image">¶</a></p>
 </div>
-<p>The following <a class="reference internal" href="#tab4"><span class="std std-ref">Table 4</span></a> list all the adjustable parameters of the controller:</p>
-<table class="colwidths-auto table" id="tab4">
-<caption><span class="caption-number">Table 4 </span><span class="caption-text">Parameters of the controller</span><a class="headerlink" href="#tab4" title="Permalink to this table">¶</a></caption>
+<p>The following <a class="reference internal" href="#tab5"><span class="std std-ref">Table 5</span></a> list all the adjustable parameters of the controller:</p>
+<table class="colwidths-auto table" id="tab5">
+<caption><span class="caption-number">Table 5 </span><span class="caption-text">Parameters of the controller</span><a class="headerlink" href="#tab5" title="Permalink to this table">¶</a></caption>
 <thead>
 <tr class="row-odd"><th class="head"><p>Parameter</p></th>
 <th class="head"><p>Meaning</p></th>

diff --git a/simulation.html b/simulation.html
@@ -379,7 +379,7 @@ This way it is possible to manipulate the arrival statistic depicted <a class="r
 </div>
 </div>
 <p><strong>Change the nominal power of the charging stations</strong>:<br>
-This way it is possible to manipulate the distribution of the nominal power of the charging stations in <a class="reference internal" href="dummy.html#tab3"><span class="std std-ref">Table 3</span></a>.</p>
+This way it is possible to manipulate the distribution of the nominal power of the charging stations in <a class="reference internal" href="dummy.html#tab4"><span class="std std-ref">Table 4</span></a>.</p>
 <div class="cell docutils container">
 <div class="cell_input docutils container">
 <div class="highlight-ipython3 notranslate"><div class="highlight"><pre><span></span><span class="n">same_power</span> <span class="o">=</span> <span class="kc">False</span>
@@ -391,7 +391,7 @@ This way it is possible to manipulate the distribution of the nominal power of t
 </div>
 </div>
 <p><strong>Change the travelled distance</strong>:<br>
-This makes it possible to adjust the travelled distance of the BEVs described in <a class="reference internal" href="dummy.html#tab2"><span class="std std-ref">Table 2</span></a>, thus determining the state of charge according to Equation <a class="reference internal" href="dummy.html#equation-eq4">(4)</a> when the charging starts.</p>
+This makes it possible to adjust the travelled distance of the BEVs described in <a class="reference internal" href="dummy.html#tab3"><span class="std std-ref">Table 3</span></a>, thus determining the state of charge according to Equation <a class="reference internal" href="dummy.html#equation-eq4">(4)</a> when the charging starts.</p>
 <div class="cell docutils container">
 <div class="cell_input docutils container">
 <div class="highlight-ipython3 notranslate"><div class="highlight"><pre><span></span><span class="n">same_travelled</span> <span class="o">=</span> <span class="kc">False</span>
@@ -421,7 +421,7 @@ This enables the controller.</p>
 </div>
 </div>
 <p><strong>Set the controlling parameters:</strong><br>
-This way the controlling parameters described in <a class="reference internal" href="dummy.html#tab4"><span class="std std-ref">Table 4</span></a> can be altered.</p>
+This way the controlling parameters described in <a class="reference internal" href="dummy.html#tab5"><span class="std std-ref">Table 5</span></a> can be altered.</p>
 <div class="cell docutils container">
 <div class="cell_input docutils container">
 <div class="highlight-ipython3 notranslate"><div class="highlight"><pre><span></span><span class="k">if</span> <span class="n">controlling</span><span class="p">:</span>
@@ -442,7 +442,7 @@ This way the controlling parameters described in <a class="reference internal" h
 </div>
 <p>However, this might change the underlying distributions (as the seed used for generating random choices isn’t fixed).</p>
 </div>
-<p>Next choose one of the <a class="reference internal" href="intro.html#tab1"><span class="std std-ref">proposed scenarios</span></a>. The scenarios satisfy all of the <a class="reference internal" href="dummy.html#distributions"><span class="std std-ref">proposed distributions</span></a> but might be altered by the <a class="reference internal" href="#settings"><span class="std std-ref">settings choosen above</span></a>.</p>
+<p>Next choose one of the <a class="reference internal" href="intro.html#tab2"><span class="std std-ref">proposed scenarios</span></a>. The scenarios satisfy all of the <a class="reference internal" href="dummy.html#distributions"><span class="std std-ref">proposed distributions</span></a> but might be altered by the <a class="reference internal" href="#settings"><span class="std std-ref">settings choosen above</span></a>.</p>
 <div class="cell docutils container">
 <div class="cell_input docutils container">
 <div class="highlight-ipython3 notranslate"><div class="highlight"><pre><span></span><span class="c1"># &#39;Szenario0&#39;, &#39;Szenario30&#39;, &#39;Szenario50&#39;, &#39;Szenario80&#39; or &#39;Szenario100&#39;</span>

diff --git a/intro.html b/intro.html
@@ -49,6 +49,8 @@
         const thebe_selector_output = ".output,.cell_output"
     </script>
     <script async="async" src="_static/sphinx-thebe.js"></script>
+    <script async="async" src="https://cdnjs.cloudflare.com/ajax/libs/mathjax/2.7.7/latest.js?config=TeX-AMS-MML_HTMLorMML"></script>
+    <script type="text/x-mathjax-config">MathJax.Hub.Config({"tex2jax": {"inlineMath": [["\\(", "\\)"]], "displayMath": [["\\[", "\\]"]], "processRefs": false, "processEnvironments": false}})</script>
     <link rel="index" title="Index" href="genindex.html" />
     <link rel="search" title="Search" href="search.html" />
     <link rel="next" title="Methodology for Research" href="dummy.html" />
@@ -309,16 +311,30 @@
 <span id="scenarios"></span><h2>Goal of this Work<a class="headerlink" href="#goal-of-this-work" title="Permalink to this headline">¶</a></h2>
 <p>Goal of this work is to study the effects of different levels of penetration of BEVs in suburban areas on the stability of the grid. Therefor a python tool using <a class="reference external" href="https://pandapower.readthedocs.io/en/develop/index.html"><em>pandapower</em></a> is beeing developed to simulate the grid. For modelling different levels of penetration of BEVs, some scenarios are beeing introduced.</p>
 <p><strong>Stability of the Grid:</strong><br>
-To assess the stability of the grid, the following parameters are beeing observed:</p>
-<ul class="simple">
-<li><p>Loading of the transformer</p></li>
-<li><p>Loading of the most loaded line</p></li>
-<li><p>Voltage of the most loaded node</p></li>
-</ul>
-<p><strong>Simulated Scenarios:</strong><br>
-The following Scenarios in <a class="reference internal" href="#tab1"><span class="std std-ref">Table 1</span></a> are beeing consideres to model different levels of penetration of BEVs:</p>
+To assess the stability of the grid, the following parameters given in <a class="reference internal" href="#tab1"><span class="std std-ref">Table 1</span></a> are beeing observed:</p>
 <table class="colwidths-auto table" id="tab1">
-<caption><span class="caption-number">Table 1 </span><span class="caption-text">Considered scenarios</span><a class="headerlink" href="#tab1" title="Permalink to this table">¶</a></caption>
+<caption><span class="caption-number">Table 1 </span><span class="caption-text">Observed parameters</span><a class="headerlink" href="#tab1" title="Permalink to this table">¶</a></caption>
+<thead>
+<tr class="row-odd"><th class="head"><p>Parameter</p></th>
+<th class="head"><p>Criterion</p></th>
+</tr>
+</thead>
+<tbody>
+<tr class="row-even"><td><p>Loading of the transformer</p></td>
+<td><p><span class="math notranslate nohighlight">\(&lt; 100 \%\)</span></p></td>
+</tr>
+<tr class="row-odd"><td><p>Loading of the most loaded line</p></td>
+<td><p><span class="math notranslate nohighlight">\(&lt; 100 \%\)</span></p></td>
+</tr>
+<tr class="row-even"><td><p>Voltage of the most loaded node</p></td>
+<td><p><span class="math notranslate nohighlight">\(&gt; 376 V\)</span></p></td>
+</tr>
+</tbody>
+</table>
+<p><strong>Simulated Scenarios:</strong><br>
+The following Scenarios in <a class="reference internal" href="#tab2"><span class="std std-ref">Table 2</span></a> are beeing considered to model different levels of penetration of BEVs:</p>
+<table class="colwidths-auto table" id="tab2">
+<caption><span class="caption-number">Table 2 </span><span class="caption-text">Considered scenarios</span><a class="headerlink" href="#tab2" title="Permalink to this table">¶</a></caption>
 <thead>
 <tr class="row-odd"><th class="head"><p>Scenario</p></th>
 <th class="head"><p>Penetration</p></th>

diff --git a/_sources/dummy.md b/_sources/dummy.md
@@ -36,7 +36,7 @@ As a SLP serves a profile "H0A" of [N_ERGIE netz](https://www.n-ergie-netz.de/st
 
 ```{figure} img/slp.png
 :name: fig3
-:width: 700px
+:width: 900px
 Load profile of the used SLP
 ```
 
@@ -119,10 +119,10 @@ It ist to see, that most people arrive at 18:00 and there is also another peak a
 ## The Distribution of travelled Distances
 
 
-The distribution of the travelled distances is taken from {cite:p}`statista_jahrliche_2021`. The vaues provided for 2020 are downscaled to one day (assuming 365 days driving per year). These downscaled values are given in the following [Table 2](tab2):
+The distribution of the travelled distances is taken from {cite:p}`statista_jahrliche_2021`. The vaues provided for 2020 are downscaled to one day (assuming 365 days driving per year). These downscaled values are given in the following [Table 3](tab3):
 
 ```{table} Distribution of travelled distances
-:name: tab2
+:name: tab3
 |Distance travelled [km]|Probability [-]|
 |--|--|
 |7|0.13|
@@ -138,10 +138,10 @@ These values determine the $d$ in Equation [](eq4). Furthermore the mean consump
 ## The Distribution of the Nominal Power of the Charging Stations
 
 
-The distribution is taken from {cite:p}`goel_stromtankstellen_nodate`, only taken into account the first three categories. This results in the values given in the following [Table 3](tab3):
+The distribution is taken from {cite:p}`goel_stromtankstellen_nodate`, only taken into account the first three categories. This results in the values given in the following [Table 4](tab4):
 
 ```{table} Distribution of the charging power
-:name: tab3
+:name: tab4
 |Charging power [kW]|Probability|
 |--|--|
 |3.7|0.35|
@@ -200,10 +200,10 @@ The complete control loop is shown in the following [Figure 7](fig7).
 Controller loop
 ```
 
-The following [Table 4](tab4) list all the adjustable parameters of the controller:
+The following [Table 5](tab5) list all the adjustable parameters of the controller:
 
 ```{table} Parameters of the controller
-:name: tab4
+:name: tab5
 |Parameter|Meaning|Default value|
 |--|--|--|
 |$F_{end}$|Factor at $\Delta U_{end}$|0.4|

diff --git a/_sources/results.md b/_sources/results.md
@@ -1,7 +1,7 @@
 # Discussion of the Results
 
 
-In this chapter the results of simulating the different [scenarios](tab1) are beeing summarized. In the following the results for each component are discussed. Furthermore the effect of the controlling is discussed.
+In this chapter the results of simulating the different [scenarios](tab2) are beeing summarized. In the following the results for each component are discussed. Furthermore the effect of the controlling is discussed.
 
 
 ## Results of the Transformer
@@ -14,7 +14,7 @@ The loading of the transformer for the different scenarios is given in the follo
 
 ```{figure} img/res_trafo.png
 :name: fig8
-:width: 700px
+:width: 900px
 Simulation results for the transformer
 ```
 
@@ -28,7 +28,7 @@ The loading of the most loaded line for the different scenarios is given in the 
 
 ```{figure} img/res_line.png
 :name: fig9
-:width: 700px
+:width: 900px
 Simulation results for the most loaded line
 ```
 
@@ -42,7 +42,7 @@ The Voltage at the most loaded nodes for the different scenarios is given in the
 
 ```{figure} img/res_bus.png
 :name: fig10
-:width: 700px
+:width: 900px
 Simulation results for the most loaded nodes
 ```
 
@@ -55,7 +55,7 @@ Notice the changing nodes for different scenarios (these are always nodes near t
 ````{margin}
 ```{admonition} Hint
 :class: hint
-Worst-case means scenario E (100% penetration of BEVs) with all the BEVs arriving at the same time and having travelled 200km (so the SOC is low).
+Worst-case means scenario E (100% penetration of BEVs) with all the BEVs arriving at the same time and having travelled 200km (so the SOC is low), all charging stations are 11 kW.
 ```
 ````
 
@@ -63,7 +63,7 @@ The following [Figure 11](fig11) shows the voltage at the most loaded node for t
 
 ```{figure} img/res_controlling.png
 :name: fig11
-:width: 700px
+:width: 900px
 Simulation results for the controlling
 ```
 
